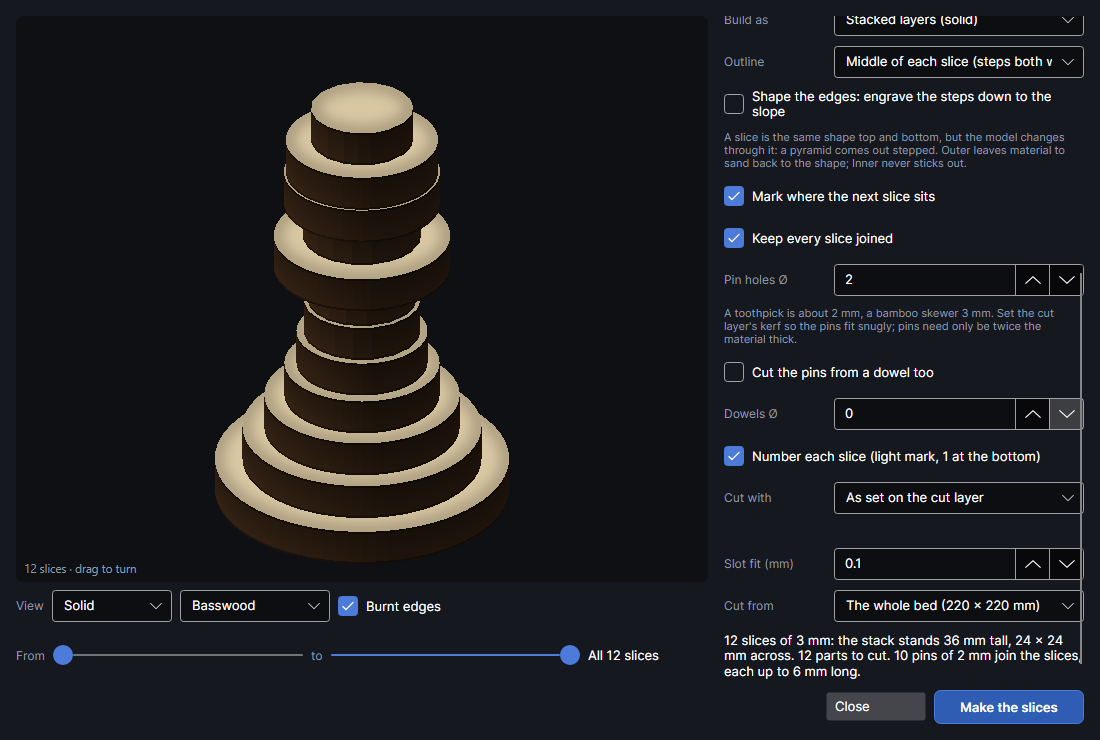
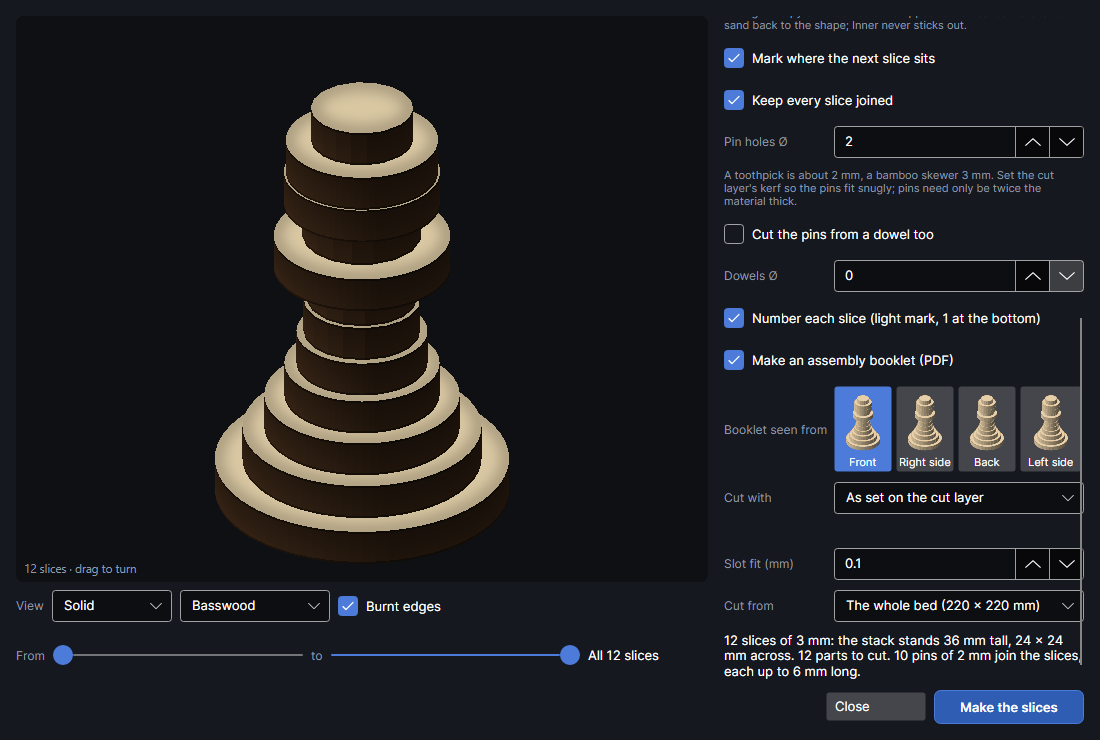
Booklet seen from: pick the side by a picture of the model from it
The Front, Right side, Back and Left side list didn't say what each would
look like. Each is now a button with the model drawn as the booklet will
show it from that side, redrawn whenever it's sliced again. The guide's
slicer pictures are made again too (the slices are no longer mirrored).

Changed region(s): [[0.6491, 0.3108, 0.9891, 0.6527], [0.6491, 0.1243, 0.9891, 0.2797], [0.6491, 0.0, 0.9582, 0.0932]]

diff --git a/src/PhotonCanvas.App/StackSliceWindow.cs b/src/PhotonCanvas.App/StackSliceWindow.cs
@@ -80,7 +80,12 @@ public sealed class StackSliceWindow : Window
     StackPanel _pinPanel = null!;
     // The assembly instructions: a PDF beside the design (or in the data folder until it's saved).
     readonly CheckBox _booklet = new() { Content = "Make an assembly booklet (PDF)", IsChecked = true };
-    readonly ComboBox _bookletView = new() { HorizontalAlignment = HorizontalAlignment.Stretch, ItemsSource = new[] { "Front", "Right side", "Back", "Left side" }, SelectedIndex = 0 };
+    // The side the booklet looks from: a picture of the model from each, to pick by sight.
+    readonly Avalonia.Controls.Primitives.UniformGrid _bookletView = new() { Columns = 4 };
+    readonly List<Avalonia.Controls.Primitives.ToggleButton> _viewPicks = [];
+    readonly List<Image> _viewPictures = [];
+    int _viewIndex;
+    CancellationTokenSource? _viewCts;
     readonly Button _openBooklet = Button("Open the booklet", tip: "Opens the assembly booklet just made, in your PDF viewer, to read or print.");
     string? _bookletPath;
 
@@ -139,7 +144,25 @@ public sealed class StackSliceWindow : Window
         ToolTip.SetTip(_joined, "Where the shape slopes steeply (a trunk, an ear), two slices can miss each other even though the model is joined. This adds the shape where they meet to both, so they overlap enough to glue and pin. Sand it back to the shape.");
         _make.Click += (_, _) => Make();
         _openBooklet.IsVisible = false;
-        _booklet.IsCheckedChanged += (_, _) => BookletShown();
+        _booklet.IsCheckedChanged += (_, _) => { BookletShown(); _ = ViewPictures(); };
+        foreach (var (name, i) in new[] { "Front", "Right side", "Back", "Left side" }.Select((n, i) => (n, i)))
+        {
+            var picture = new Image { Width = 72, Height = 64, Stretch = Stretch.Uniform };
+            var pick = new Avalonia.Controls.Primitives.ToggleButton
+            {
+                IsChecked = i == 0,
+                Padding = new(2),
+                Margin = new(0, 0, i < 3 ? 4 : 0, 0),
+                HorizontalAlignment = HorizontalAlignment.Stretch,
+                HorizontalContentAlignment = HorizontalAlignment.Center,
+                Content = new StackPanel { Spacing = 2, Children = { picture, new TextBlock { Text = name, FontSize = 11, HorizontalAlignment = HorizontalAlignment.Center } } },
+            };
+            ToolTip.SetTip(pick, $"The booklet's pictures look at the model from this side: {name.ToLowerInvariant()}.");
+            pick.Click += (_, _) => { _viewIndex = i; for (int k = 0; k < _viewPicks.Count; k++) _viewPicks[k].IsChecked = k == i; };
+            _viewPicks.Add(pick);
+            _viewPictures.Add(picture);
+            _bookletView.Children.Add(pick);
+        }
         _openBooklet.Click += (_, _) =>
         {
             if (_bookletPath is null || !File.Exists(_bookletPath)) return;
@@ -221,7 +244,7 @@ public sealed class StackSliceWindow : Window
                 }),
                 _numbers,
                 _booklet,
-                Field("Booklet seen from", _bookletView, tip: "Which side of the model the booklet's pictures look at. Front is the side facing −Y in the file, as almost every 3D program saves it; if your model comes out from behind, choose Back."),
+                Field("Booklet seen from", _bookletView, tip: "Which side of the model the booklet's pictures look at: each picture is the model as the booklet will show it. Pick the one that shows it the way you want to build it."),
                 Field("Cut with", _cutWith, tip: "Cut settings from your library: the material's thickness, and the kerf and slot fit your cut test measured, go on the slices."),
                 _cutNote,
                 Field("Slot fit (mm)", _fit, tip: "Slots are the material's thickness plus this. Raise it if the sheets won't go together, lower it (even below 0) if they're loose. The cut layer's kerf counts too."),
@@ -299,6 +322,29 @@ public sealed class StackSliceWindow : Window
         _numbers.Content = _method.SelectedIndex == 0 ? "Number each slice (light mark, 1 at the bottom)" : "Name each sheet and mark what goes in each slot";
         _booklet.IsVisible = _method.SelectedIndex == 0;
         BookletShown();
+    }
+
+    /// <summary>The model as the booklet would show it from each side (in the background: a big model takes a moment).</summary>
+    async Task ViewPictures()
+    {
+        if (_stack is not { Method: SliceMethod.Stacked } stack || _booklet.IsChecked != true || _method.SelectedIndex != 0) return;
+        _viewCts?.Cancel();
+        var cts = _viewCts = new CancellationTokenSource();
+        double turn = (double)(_turn.Value ?? 0);
+        try
+        {
+            for (int i = 0; i < _viewPictures.Count; i++)
+            {
+                int k = i;
+                var png = await Task.Run(() => AssemblyBooklet.RenderView(stack, (BookletView)k, turn, 216, 192), cts.Token);
+                if (cts.IsCancellationRequested) return;
+                var old = _viewPictures[k].Source as IDisposable;
+                _viewPictures[k].Source = new Avalonia.Media.Imaging.Bitmap(new MemoryStream(png));
+                old?.Dispose();
+            }
+        }
+        catch (OperationCanceledException) { }
+        catch (Exception e) when (e is ArgumentException or InvalidOperationException) { AppLog.Error("booklet view pictures", e); }
     }
 
     /// <summary>The booklet's view only when there'll be a booklet.</summary>
@@ -556,6 +602,7 @@ public sealed class StackSliceWindow : Window
             if (cts.IsCancellationRequested) return;
             _stack = stack;
             Pins();
+            _ = ViewPictures();
             _view.Show(stack, o.ThicknessMm);
             // The range slider spans the new stack (all of it, unless a range was already picked within it).
             bool all = _to.Value >= _to.Maximum && _from.Value <= 1;
@@ -665,7 +712,7 @@ public sealed class StackSliceWindow : Window
             PinLengthMm = pinLength,
             DowelMm = (double)(_dowel.Value ?? 0),
             Outline = (SliceOutline)Math.Max(0, _outline.SelectedIndex),
-            View = (BookletView)Math.Max(0, _bookletView.SelectedIndex),
+            View = (BookletView)_viewIndex,
             TurnDeg = (double)(_turn.Value ?? 0),
         };
         try

diff --git a/src/PhotonCanvas.Doc/Geometry/AssemblyBooklet.cs b/src/PhotonCanvas.Doc/Geometry/AssemblyBooklet.cs
@@ -73,6 +73,22 @@ public static class AssemblyBooklet
 
     public static int PageCount(SliceStack stack, BookletOptions o) => Pages(stack, o).Count;
 
+    /// <summary>
+    /// The finished model as the booklet's pictures show it from <paramref name="view"/>, as a PNG
+    /// on a clear background (for choosing the side to look from).
+    /// </summary>
+    public static byte[] RenderView(SliceStack stack, BookletView view, double turnDeg, int width, int height)
+    {
+        var parts = stack.Parts.Select(Prepare).ToList();
+        double t = stack.ThicknessMm > 0 ? stack.ThicknessMm : stack.StackHeightMm / Math.Max(1, stack.Slices);
+        using var surface = SKSurface.Create(new SKImageInfo(width, height, SKColorType.Rgba8888, SKAlphaType.Premul));
+        surface.Canvas.Clear(SKColors.Transparent);
+        new Iso(parts, t, (int)view * 90 + turnDeg).Draw(surface.Canvas, new SKRect(2, 2, width - 2, height - 2), parts, _ => false, []);
+        using var img = surface.Snapshot();
+        using var data = img.Encode(SKEncodedImageFormat.Png, 90);
+        return data.ToArray();
+    }
+
     /// <summary>One page as a PNG, <paramref name="scale"/> pixels a point (for previews and checks).</summary>
     public static byte[] RenderPng(SliceStack stack, BookletOptions o, int page, float scale = 1.5f)
     {

diff --git a/tools/HelpShots/MoreShots.cs b/tools/HelpShots/MoreShots.cs
@@ -64,6 +64,20 @@ static class MoreShots
             settle(300);
         }
         Summary("window-3d-slices-summary", "Stacked slices: the foot of the settings, with the summary");
+        // The booklet's sides to look from, each a picture of the model from that side (drawn in the
+        // background): the block animal, which looks different from each side, unlike the pawn.
+        slicer.Load([.. Block(0, 0, 0, 6, 6, 12), .. Block(44, 0, 0, 50, 6, 12), .. Block(0, 14, 0, 6, 20, 12), .. Block(44, 14, 0, 50, 20, 12),
+            .. Block(0, 0, 12, 50, 20, 27), .. Block(40, 5, 27, 60, 15, 39), .. Block(52, 5, 21, 60, 15, 27)], "animal.stl");
+        Slice(slicer);
+        settle(2000);
+        if (F<Avalonia.Controls.Primitives.UniformGrid>(slicer, "_bookletView") is { } picks)
+        {
+            picks.BringIntoView();
+            settle(500);
+            save(slicer.CaptureRenderedFrame(), "window-3d-slices-booklet-view", "Stacked slices: Booklet seen from, a block animal from each side");
+        }
+        slicer.Load(pawn, "pawn.stl");
+        Slice(slicer);
         F<CheckBox>(slicer, "_shape").IsChecked = true;
         Slice(slicer);
         Summary("window-3d-slices-shaping-summary", "Stacked slices with Shape the edges ticked: the summary's edge shaping line");

diff --git a/docs/help/3d-slices.md b/docs/help/3d-slices.md
@@ -420,12 +420,17 @@ whatever is left of it above that goes on the model in its own steps, like any o
 
 ### Which way the pictures look
 
-**Booklet seen from** (**Front**, **Right side**, **Back**, **Left side**; shown when the booklet is
-on) chooses which side of the model the 3D pictures look at, a little from one side and above.
+**Booklet seen from** (shown when the booklet is on) chooses which side of the model the 3D
+pictures look at, a little from one side and above. Its four buttons, **Front**, **Right side**,
+**Back** and **Left side**, each show your model as the booklet will show it from that side, drawn
+again whenever the model is sliced again: click the one that looks the way you want to build it.
+The one chosen is blue.
+
+![Booklet seen from: a block animal from each side, Front chosen](images/window-3d-slices-booklet-view.png)
+
 **Front** is the side facing −Y in the model's file, as almost every 3D program saves it; turning
-the model with **Turned (°)** turns the pictures with it, so the front stays the front. If your
-model comes out seen from behind, choose **Back**. The "From above" pictures are turned the same
-way, the side you're looking from at the bottom.
+the model with **Turned (°)** turns the pictures with it. The "From above" pictures in the steps
+are turned the same way, the side you're looking from at the bottom.
 
 Where it's saved: next to your design, as "*model* assembly.pdf", once the design has been saved
 (**File → Save**); until then, in the **Booklets** folder of the program's data folder

diff --git a/docs/help/tutorials/3d-booklet.md b/docs/help/tutorials/3d-booklet.md
@@ -25,7 +25,7 @@ Leave this ticked. It only shows for **Stacked layers (solid)**.
 
 ## Choose the side to look from
 <!-- target: field:Booklet seen from -->
-**Front** looks at the model's front. If its pictures show it from behind, choose **Back**.
+Each button shows your model as the booklet will show it from that side. Click the one you like.
 
 ## Make the slices
 <!-- target: button:Make the slices -->
